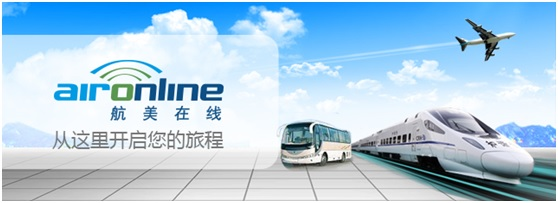
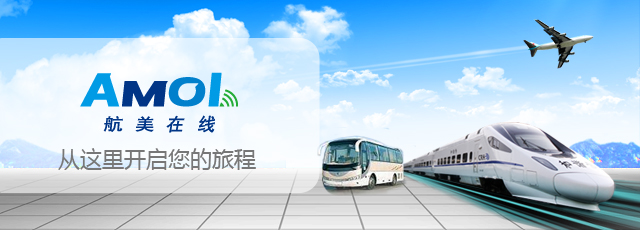
修复首页背景图比例和大巴底图 没有自适应的问题

diff --git a/home.html b/home.html
@@ -22,7 +22,7 @@
         <script type="text/javascript" src="../../resource/js/pvuv.handler.js"></script>
 
 	</head>
-	<body class="o-page">
+	<body class="o-page" style="line-height: 0px;">
 		<div id="page">
 			<!-- Header -->
 			<div id="header-index">
@@ -36,16 +36,8 @@
 			<div style="display: none" class="subHeader"><i class="i-home i-small"></i>Welcome friend!</div>
 			
 			<!-- Banner -->
-			<div class="bannerPane">
-			  <section class="slider">
-				<div class="flexslider">
-				  <ul class="slides">
-                      <li>
-                          <img src="resource/img/home/banner1.png" style="height: 218px"/>
-                      </li>
-				  </ul>
-				</div>
-			  </section>
+			<div>
+                <img id="bannerImageHome" src="resource/img/home/banner2.png" style="height: 100%;width: 100%"/>
 			</div>
 			<!-- End Banner -->
 			<!-- Content -->
@@ -134,8 +126,14 @@
                 document.getElementById("home_apps").style.display="none";
             }
         }
+        function initialScreen(){
+            var bannerImg = document.getElementById("bannerImageHome");
+            var bannerHeight=bannerImg.offsetHeight;
+            console.log(bannerHeight);
+            $("#content").css("height",(bannerHeight*1.6)+"px");
+        }
         initialApps();
-
+        initialScreen();
     </script>
     <script type="text/javascript" src="config/oem_initial.js"></script>
 </html>

diff --git a/apps/bus-web/html/busNews9.html b/apps/bus-web/html/busNews9.html
@@ -76,8 +76,8 @@
         下一步，“接驳联盟”将按照“成熟一个、实施一个”的原则，根据接驳点、线路、车辆的准备工作完成情况，经认定后，予以发放接驳运输证件，准予其正式开展接驳运输。
     </p>
 </div>
-<div class ="float">
-    <img src="ad_bottom.gif">
+<div style="position: fixed;bottom: 0px;width: 100%;height: 71px;">
+    <img style="width: 100%;height: 100%" src="ad_bottom.gif">
 </div>
 </body>
 <script type="text/javascript" src="../js/util/tween.js" ></script>

diff --git a/apps/bus-web/html/busNews1.html b/apps/bus-web/html/busNews1.html
@@ -80,9 +80,9 @@
                 </p>
                 <div class="editor">编辑：集团办公室</div>
          </div>
-		<div class ="float">
-			<img src="ad_bottom.gif">
-		</div>
+        <div style="position: fixed;bottom: 0px;width: 100%;height: 71px;">
+            <img style="width: 100%;height: 100%" src="ad_bottom.gif">
+        </div>
 	</body>
 	<script type="text/javascript" src="../js/util/tween.js" ></script>
 	<script type="text/javascript" src="../js/util/jquery.js"></script>

diff --git a/apps/bus-web/html/busNews2.html b/apps/bus-web/html/busNews2.html
@@ -80,8 +80,8 @@
     </p>
     <div class="editor">编辑：集团办公室</div>
 </div>
-<div class ="float">
-    <img src="ad_bottom.gif">
+<div style="position: fixed;bottom: 0px;width: 100%;height: 71px;">
+    <img style="width: 100%;height: 100%" src="ad_bottom.gif">
 </div>
 </body>
 <script type="text/javascript" src="../js/util/tween.js" ></script>

diff --git a/apps/bus-web/html/busNews3.html b/apps/bus-web/html/busNews3.html
@@ -74,8 +74,8 @@
     </p>
     <div class="editor">编辑：集团办公室</div>
 </div>
-<div class ="float">
-    <img src="ad_bottom.gif">
+<div style="position: fixed;bottom: 0px;width: 100%;height: 71px;">
+    <img style="width: 100%;height: 100%" src="ad_bottom.gif">
 </div>
 </body>
 <script type="text/javascript" src="../js/util/tween.js" ></script>

diff --git a/apps/bus-web/html/busNews4.html b/apps/bus-web/html/busNews4.html
@@ -73,8 +73,8 @@
     </p>
     <div class="editor">编辑：集团办公室</div>
 </div>
-<div class ="float">
-    <img src="ad_bottom.gif">
+<div style="position: fixed;bottom: 0px;width: 100%;height: 71px;">
+    <img style="width: 100%;height: 100%" src="ad_bottom.gif">
 </div>
 </body>
 <script type="text/javascript" src="../js/util/tween.js" ></script>

diff --git a/apps/bus-web/html/busNews5.html b/apps/bus-web/html/busNews5.html
@@ -71,8 +71,8 @@
     </p>
     <div class="editor">编辑：集团办公室</div>
 </div>
-<div class ="float">
-    <img src="ad_bottom.gif">
+<div style="position: fixed;bottom: 0px;width: 100%;height: 71px;">
+    <img style="width: 100%;height: 100%" src="ad_bottom.gif">
 </div>
 </body>
 <script type="text/javascript" src="../js/util/tween.js" ></script>

diff --git a/apps/bus-web/html/busNews6.html b/apps/bus-web/html/busNews6.html
@@ -77,8 +77,8 @@
     </p>
     <div class="editor">编辑：集团办公室</div>
 </div>
-<div class ="float">
-    <img src="ad_bottom.gif">
+<div style="position: fixed;bottom: 0px;width: 100%;height: 71px;">
+    <img style="width: 100%;height: 100%" src="ad_bottom.gif">
 </div>
 </body>
 <script type="text/javascript" src="../js/util/tween.js" ></script>

diff --git a/apps/bus-web/html/busNews7.html b/apps/bus-web/html/busNews7.html
@@ -83,8 +83,8 @@
     </p>
     <div class="editor">编辑：集团办公室</div>
 </div>
-<div class ="float">
-    <img src="ad_bottom.gif">
+<div style="position: fixed;bottom: 0px;width: 100%;height: 71px;">
+    <img style="width: 100%;height: 100%" src="ad_bottom.gif">
 </div>
 </body>
 <script type="text/javascript" src="../js/util/tween.js" ></script>

diff --git a/apps/bus-web/html/busNews10.html b/apps/bus-web/html/busNews10.html
@@ -79,8 +79,8 @@
     </p>
     <div class="editor">编辑：华政</div>
 </div>
-<div class ="float">
-    <img src="ad_bottom.gif">
+<div style="position: fixed;bottom: 0px;width: 100%;height: 71px;">
+    <img style="width: 100%;height: 100%" src="ad_bottom.gif">
 </div>
 </body>
 <script type="text/javascript" src="../js/util/tween.js" ></script>

diff --git a/apps/bus-web/html/busNews8.html b/apps/bus-web/html/busNews8.html
@@ -74,8 +74,8 @@
     </p>
 </div>
 
-<div class ="float">
-    <img src="ad_bottom.gif">
+<div style="position: fixed;bottom: 0px;width: 100%;height: 71px;">
+    <img style="width: 100%;height: 100%" src="ad_bottom.gif">
 </div>
 </body>
 <script type="text/javascript" src="../js/util/tween.js" ></script>
